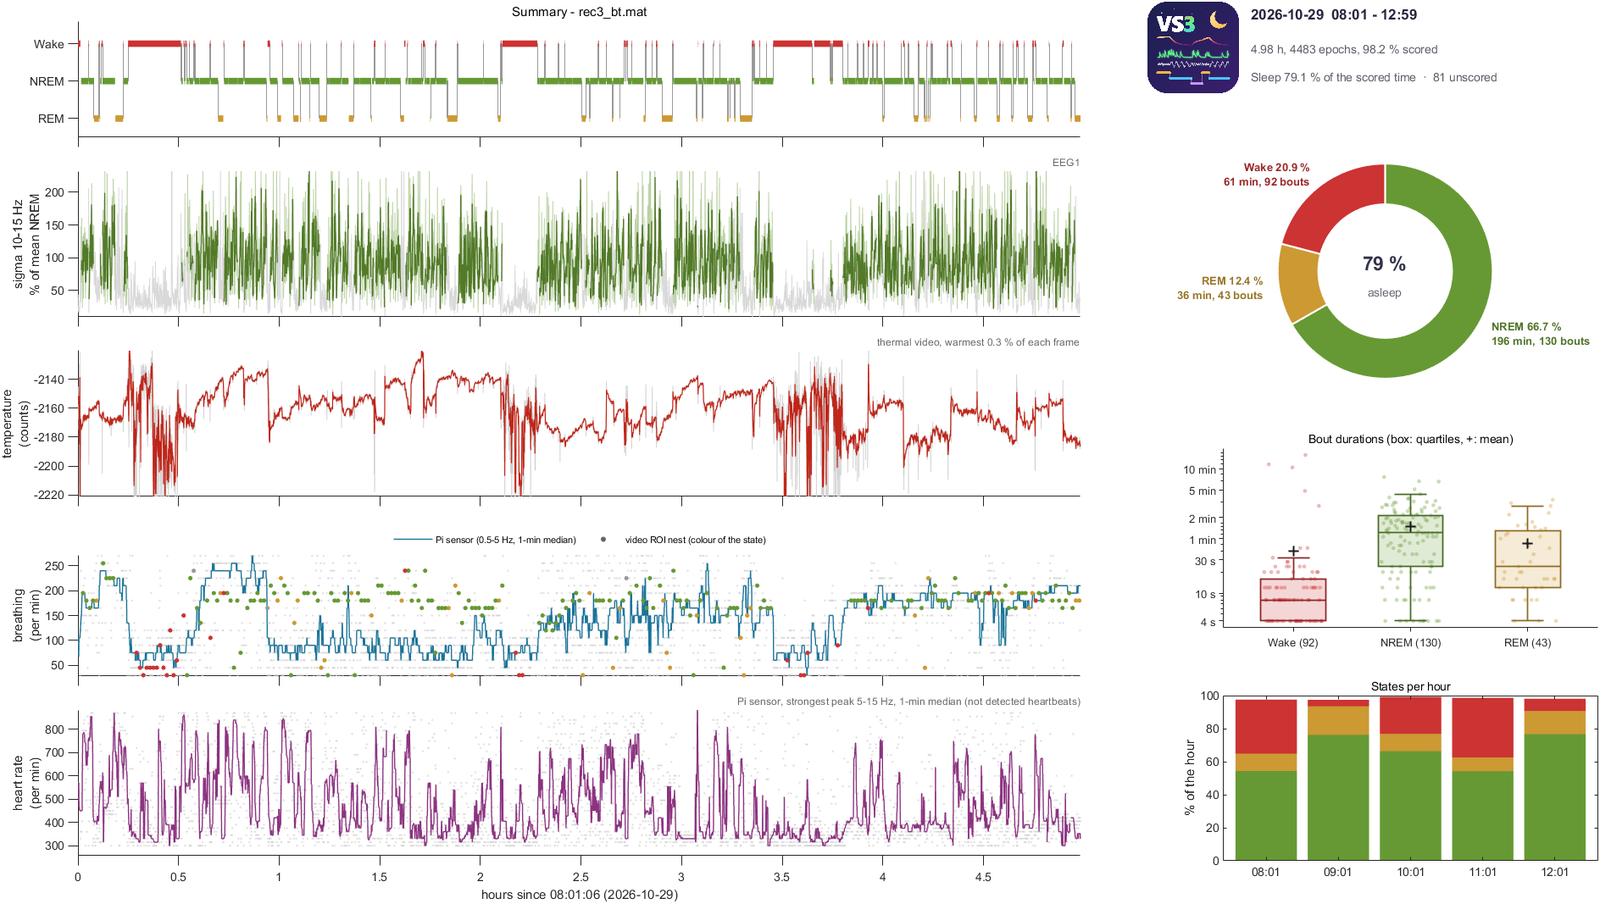
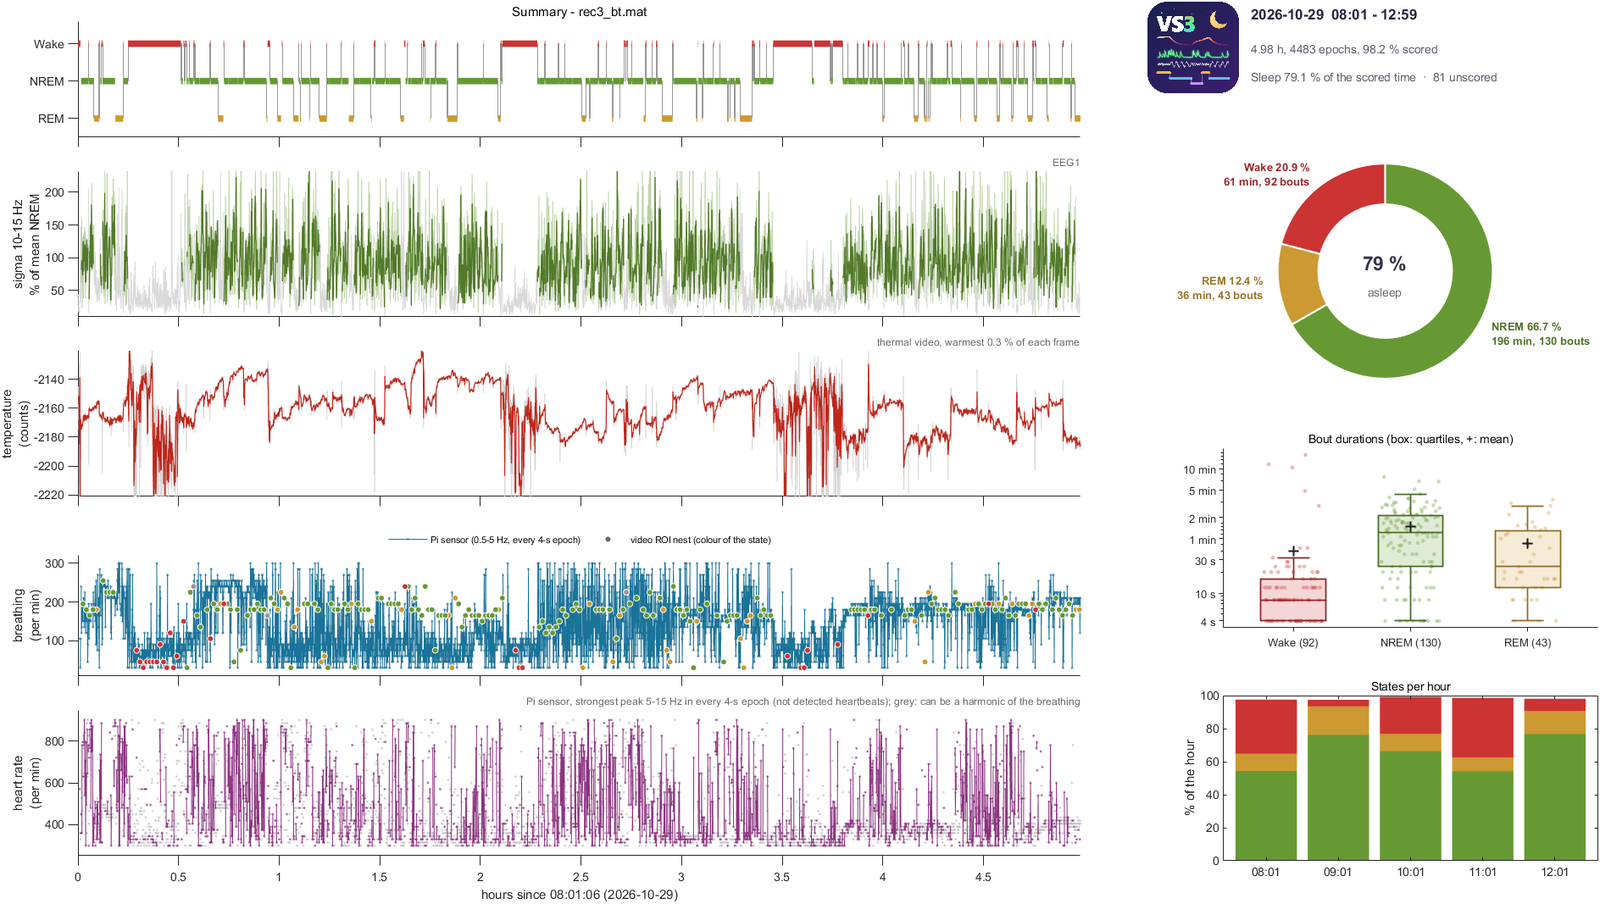
VeryScore3 summary: sensor breathing and heart rate of every 4-s epoch
The breathing and heart rate of the Pi sensor are drawn for every 4-s
epoch (line with a dot per epoch, so an epoch between gaps shows) instead
of a 1-min moving median. Heart-band peaks that can be a harmonic of the
breathing are grey dots. The video ROI dots get a white edge to stand out
from the sensor line. S.breathing / S.heart no longer have sensorMedian.

testImportTakesTheCsv puts the file history pref back (the import
remembers the folder of the CSV). Figure 23 of the tutorial remade on
recording 3; README and tutorial give the measuring times seen (warm spot
12-19 min, nest ROI breathing 16-28 min on the network drive).

Changed region(s): [[0.0312, 0.7743, 0.6875, 0.9602], [0.0312, 0.5885, 0.6875, 0.7434]]

diff --git a/VeryScore3_For_Sleep_Scoring/VS3_summary.m b/VeryScore3_For_Sleep_Scoring/VS3_summary.m
@@ -12,10 +12,10 @@ function [fig, S] = VS3_summary(varargin)
 %      every epoch (light); artifact epochs (1/2/3) left out
 %   3. temperature of the thermal video, when given (one value per epoch, per frame in grey)
 %   4. breathing rate, when given: of the Pi sensor (strongest peak in its respiration band in every
-%      epoch, in grey; 1-min moving median in colour) and seen by Pi ROIs of the video (dots in the
-%      colour of the state of the epoch: only sleep in the nest shows the breathing)
-%   5. heart rate of the Pi sensor, when given (strongest peak in its heart band, in grey; 1-min
-%      moving median of the epochs where it is not a harmonic of the breathing, in colour)
+%      4-s epoch, in steps of 15 /min) and seen by Pi ROIs of the video (dots in the colour of the
+%      state of the epoch: only sleep in the nest shows the breathing)
+%   5. heart rate of the Pi sensor, when given (strongest peak in its heart band in every 4-s epoch;
+%      in grey the epochs where it can be a harmonic of the breathing)
 %   6. photometry dF/F, when given (20 Hz in grey, 10-s mean in colour; the start left out of the
 %      baseline fit shaded)
 % and, on the right: when the recording ran, a ring of the time spent in each state, the duration of the
@@ -173,16 +173,14 @@ for i = 1:np
                 'VerticalAlignment', 'bottom', 'FontSize', 8, 'Color', [.4 .4 .4], 'Interpreter', 'none');
             S.thermal = struct('time', tEp, 'value', ve, 'unit', unit);
         case 'breathing'
-            S.breathing = struct('time', tEp, 'sensor', [], 'sensorMedian', [], 'video', struct('roi', {}, 'time', {}, 'value', {}));
+            S.breathing = struct('time', tEp, 'sensor', [], 'video', struct('roi', {}, 'time', {}, 'value', {}));
             shown = gobjects(0); names = {}; main = []; every = [];
             if hasS
                 v = perEpoch(o.sensor.breathing, o.sensor.epochs, nEp) * 60;
-                vs = movmedian(v, 15, 'omitnan');            % 1 min
-                plot(a, tEp, v, '.', 'Color', [.82 .82 .82], 'MarkerSize', 3);
-                shown(end + 1) = plot(a, tEp, vs, 'Color', colBreath, 'LineWidth', 0.9);
-                names{end + 1} = sprintf('Pi sensor (%g-%g Hz, 1-min median)', o.sensor.bands(1, :));
-                S.breathing.sensor = v; S.breathing.sensorMedian = vs;
-                main = vs(isfinite(vs)); every = v(isfinite(v));
+                shown(end + 1) = plot(a, tEp, v, '.-', 'Color', colBreath, 'LineWidth', 0.5, 'MarkerSize', 4); % (dots: an epoch between gaps)
+                names{end + 1} = sprintf('Pi sensor (%g-%g Hz, every 4-s epoch)', o.sensor.bands(1, :));
+                S.breathing.sensor = v;
+                main = v(isfinite(v)); every = main;
             end
             if hasV
                 marks = 'osd^v';
@@ -197,7 +195,7 @@ for i = 1:np
                         sel = state(e) == lv;
                         if ~any(sel); continue; end
                         c = [.6 .6 .6]; if lv > 0; c = stateCols{lv}; end
-                        plot(a, tEp(e(sel)), f(sel), mk, 'MarkerSize', 3.5, 'MarkerFaceColor', c, 'MarkerEdgeColor', 'none');
+                        plot(a, tEp(e(sel)), f(sel), mk, 'MarkerSize', 4.5, 'MarkerFaceColor', c, 'MarkerEdgeColor', 'w', 'LineWidth', 0.3);
                     end
                     shown(end + 1) = plot(a, NaN, NaN, mk, 'MarkerSize', 4, 'MarkerFaceColor', [.4 .4 .4], 'MarkerEdgeColor', 'none'); %#ok<AGROW>
                     names{end + 1} = sprintf('video ROI %s (colour of the state)', B.roi); %#ok<AGROW>
@@ -215,15 +213,16 @@ for i = 1:np
             v = perEpoch(o.sensor.heart, o.sensor.epochs, nEp) * 60;
             harm = perEpoch(double(o.sensor.harmonic), o.sensor.epochs, nEp) == 1;
             vc = v; vc(harm) = NaN;                          % a harmonic of the breathing is no heart rate
-            vs = movmedian(vc, 15, 'omitnan');
-            plot(a, tEp, v, '.', 'Color', [.82 .82 .82], 'MarkerSize', 3);
-            plot(a, tEp, vs, 'Color', colHeart, 'LineWidth', 0.9);
+            vh = v; vh(~harm) = NaN;
+            plot(a, tEp, vh, '.', 'Color', [.75 .75 .75], 'MarkerSize', 4);
+            plot(a, tEp, vc, '.-', 'Color', colHeart, 'LineWidth', 0.5, 'MarkerSize', 4);
             ylabel(a, sprintf('heart rate\n(per min)'));
-            if any(isfinite(vs)); a.YLim = robustLim(vs(isfinite(vs)), v(isfinite(v)), [0.5 99.5]); end
-            text(a, 1, 1.02, sprintf('Pi sensor, strongest peak %g-%g Hz, 1-min median (not detected heartbeats)', o.sensor.bands(2, :)), ...
+            if any(isfinite(v)); a.YLim = robustLim(vc(isfinite(vc)), v(isfinite(v)), [0.5 99.5]); end
+            text(a, 1, 1.02, sprintf(['Pi sensor, strongest peak %g-%g Hz in every 4-s epoch (not detected heartbeats); ', ...
+                'grey: can be a harmonic of the breathing'], o.sensor.bands(2, :)), ...
                 'Units', 'normalized', 'HorizontalAlignment', 'right', 'VerticalAlignment', 'bottom', 'FontSize', 8, ...
                 'Color', [.4 .4 .4], 'Interpreter', 'none');
-            S.heart = struct('time', tEp, 'sensor', v, 'harmonic', harm, 'sensorMedian', vs);
+            S.heart = struct('time', tEp, 'sensor', v, 'harmonic', harm);
         case 'photometry'
             P = o.photometry;
             tp = double(P.time(:)') / 3600;

diff --git a/VeryScore3_For_Sleep_Scoring/tests/test_summary.m b/VeryScore3_For_Sleep_Scoring/tests/test_summary.m
@@ -33,8 +33,13 @@ ax = findall(fig, 'Type', 'axes', 'Tag', 'VS3summary');
 labels = arrayfun(@(a) strjoin(cellstr(a.YLabel.String), ' '), ax, 'UniformOutput', false);
 verifyEqual(t, numel(ax), 3);                              % hypnogram, breathing, heart rate
 verifyTrue(t, any(contains(labels, 'breathing')) && any(contains(labels, 'heart rate')));
-verifyEqual(t, S.breathing.sensorMedian, 120*ones(1, nEp), 'AbsTol', 1e-9);
-verifyEqual(t, S.heart.sensorMedian, 480*ones(1, nEp), 'AbsTol', 1e-9); % the harmonic epochs left out
+breath = 120*ones(1, nEp); breath(100:110) = NaN;                % every 4-s epoch, no median
+verifyEqual(t, S.breathing.sensor, breath, 'AbsTol', 1e-9);
+heart = 480*ones(1, nEp); heart(120:126) = NaN;                  % the harmonic epochs left out of the line
+hr = ax(contains(labels, 'heart rate'));
+verifyEqual(t, findobj(hr, 'Type', 'line', 'Color', [.55 .2 .5]).YData, heart, 'AbsTol', 1e-9);
+verifyEqual(t, S.heart.sensor(120:126), 240*ones(1, 7), 'AbsTol', 1e-9); % shown in grey
+verifyEqual(t, find(S.heart.harmonic), 120:126);
 verifyEqual(t, S.breathing.video.value, 150*ones(1, numel(23:15:nEp)));
 verifyEqual(t, S.breathing.video.time, ((23:15:nEp) - 0.5)*4/3600, 'AbsTol', 1e-12);
 end

diff --git a/VeryScore3_For_Sleep_Scoring/tests/test_sensor.m b/VeryScore3_For_Sleep_Scoring/tests/test_sensor.m
@@ -181,6 +181,8 @@ writeFunction(fullfile(dialogs,'uigetfile.m'),sprintf('function [f,p]=uigetfile(
 writeFunction(fullfile(dialogs,'listdlg.m'),sprintf('function [s,ok]=listdlg(varargin)\ns=1; ok=true;\nend'));
 addpath(dialogs);
 unshadow=onCleanup(@() rmpath(dialogs)); %#ok<NASGU>
+had=VS3_pref('is','fileHistory'); history=VS3_pref('get','fileHistory');
+restore=onCleanup(@() putBackHistory(had,history)); %#ok<NASGU>
 VS3_main(recording);
 main=findall(groot,'Type','figure','Tag','VS3Main');
 assertEqual(t,numel(main),1);
@@ -197,6 +199,11 @@ menu.Callback(menu,[]); % the same CSV again: its H5 is used, not made again
 verifyEqual(t,getfield(dir(target),'datenum'),made); %#ok<GFLD>
 verifyFalse(t,isfile(fullfile(eeg,'importcsv_sensor_2.h5')));
 verifyEqual(t,numel(findall(groot,'Type','figure','Name','Sensor / EEG-EMG comparison')),1);
+end
+
+function putBackHistory(had,history)
+% the import remembers the folder of the CSV (VS3_fileHistory): the history of the user is put back
+if had; VS3_pref('set','fileHistory',history); else; VS3_pref('remove','fileHistory'); end
 end
 
 function writeFunction(path,text)

diff --git a/VeryScore3_For_Sleep_Scoring/README.md b/VeryScore3_For_Sleep_Scoring/README.md
@@ -317,12 +317,12 @@ How it is computed: the channel is multiplied by the cosine and sine of each car
 2. the sigma activity: power of the EEG in the sigma band (10-15 Hz) in every 4-s epoch, in % of its mean over the NREM epochs (of the median when nothing is scored as NREM); NREM in green, as a 3-epoch moving median that keeps the slow (about 1-min) fluctuations of sigma, over the values of each epoch in light green; artifact epochs left out
 3. the temperature of the animal (one value per epoch, per video frame in grey): from Tools > Thermal video when the file has that analysis; otherwise, when a thermal video is open in the video column, from the video itself: the mean of the 0.3 % warmest pixels of every second frame (the warm spot that the movement tools also use), median per epoch, frames of a shutter cycle left out. A `.ravi` gives energy counts (the camera calibration to degrees is applied by Tools > Thermal video only)
 4. the breathing rate, per minute:
-   - of the Pi sensor, when it is imported (Tools > Sensor data): the strongest peak in its respiration band (0.5-5 Hz unless changed in the comparison) in every epoch in grey, its 1-min moving median in blue
+   - of the Pi sensor, when it is imported (Tools > Sensor data): the strongest peak in its respiration band (0.5-5 Hz unless changed in the comparison) in every 4-s epoch, in blue. A 4-s window resolves 0.25 Hz, so the values come in steps of 15 per minute
    - seen by each Pi ROI of the video column, as dots in the colour of the state of the epoch, in one epoch per minute (the middle one): the strongest peak of the movement of the ROI (dx or dy) between 0.5 and 5 Hz. An epoch in which the ROI moved by more than 1 pixel (the animal moving, not breathing) or was lost gives no dot. Put the ROI on the nest: the breathing moves it by about 0.05 pixel and shows only while the animal sleeps there
-5. the heart rate of the Pi sensor, per minute: the strongest peak in its heart band (5-15 Hz) in every epoch in grey, its 1-min moving median in purple without the epochs where the peak can be a harmonic of the breathing. A peak of the spectrum, not detected heartbeats
+5. the heart rate of the Pi sensor, per minute: the strongest peak in its heart band (5-15 Hz) in every 4-s epoch, in purple; in grey the epochs where the peak can be a harmonic of the breathing. A peak of the spectrum, not detected heartbeats
 6. the photometry dF/F, when the file has it (20 Hz in grey, 10-s mean in blue; the start left out of the baseline fit shaded)
 
-The signals of the videos are measured when the summary is made: what is not measured yet is listed first, with the time it takes (choose none for a summary without them). On recording 3 (5 h, videos on a network drive) the warm spot took 12 min and the breathing of the nest ROI (299 epochs of a 1080p video) 16 min. They are kept in the video settings and saved with the file, so they are measured only once (the breathing again when the ROI or the offset of the Pi video changes). The breathing and heart rate of the sensor take a few seconds.
+The signals of the videos are measured when the summary is made: what is not measured yet is listed first, with the time it takes (choose none for a summary without them). On recording 3 (5 h, videos on a network drive) the warm spot took 12 to 19 min and the breathing of the nest ROI (299 epochs of a 1080p video) 16 to 28 min, depending on the load of the drive. They are kept in the video settings and saved with the file, so they are measured only once (the breathing again when the ROI or the offset of the Pi video changes). The breathing and heart rate of the sensor take a few seconds.
 
 and, on the right:
 

diff --git a/VeryScore3_For_Sleep_Scoring/tutorial/README.md b/VeryScore3_For_Sleep_Scoring/tutorial/README.md
@@ -258,11 +258,11 @@ The sensor is placed on the EEG by the clock times of the two recordings. **Band
 
 **Tools > Summary figure...** asks for an EEG channel and draws the whole recording in one figure: the hypnogram, the sigma activity of the EEG (10–15 Hz, spindles) in NREM sleep, the temperature, breathing and heart rate when the videos and the sensor are open, photometry when the file has it, the time spent in each state, the duration of the bouts, and the states hour by hour.
 
-With a thermal video open, the temperature is the warmest spot of each frame. With an ROI on the nest in the Pi video, the breathing is measured in one epoch per minute: dots in the colour of the state, so you see the breathing of the sleeping mouse. With the sensor imported, its breathing and heart rate are shown too. The first time, VeryScore3 asks before measuring the videos (here 12 min for the temperature and 16 min for the breathing); **File > Save** keeps the results.
+With a thermal video open, the temperature is the warmest spot of each frame. With an ROI on the nest in the Pi video, the breathing is measured in one epoch per minute: dots in the colour of the state, so you see the breathing of the sleeping mouse. With the sensor imported, its breathing and heart rate are shown too, one value per 4-s epoch. The first time, VeryScore3 asks before measuring the videos (here 12 to 19 min for the temperature and 16 to 28 min for the breathing, depending on the network drive); **File > Save** keeps the results.
 
 ![Summary figure with the videos and the sensor](images/23_summary_signals.png)
 
-Here the video breathing is about 180 per minute in NREM sleep (middle half 165–195). The sensor's breathing peak often sits lower, and its heart-band peak (300–850 per minute) is a peak of the spectrum, not counted heartbeats.
+Here the video breathing is about 180 per minute in NREM sleep (middle half 165–195). The sensor's breathing jumps by about 30 per minute from one epoch to the next. In NREM it agrees with the video after 3 h of the recording, but between 1 and 2.5 h most epochs sit at 60–120. Its heart-band peak can be a harmonic of the breathing in half of the epochs (grey) and otherwise spreads over 360–690 per minute in NREM: a peak of the spectrum, not counted heartbeats.
 
 ![Summary figure](images/22_summary.png)
 

diff --git a/VeryScore3_For_Sleep_Scoring/CHANGELOG.md b/VeryScore3_For_Sleep_Scoring/CHANGELOG.md
@@ -44,8 +44,9 @@ The separate program is not part of VeryScore3; its video, timing and sensor fun
   for files converted from Open Ephys: their recorded names (`traceName`) won before, so the names typed
   were never shown. File > Edit file Infos > New: Cancel no longer gives an error.
 - Sensor comparison: cancelling the calculation of the trends showed an error instead of the partial trends.
-- Tools > Summary figure: the breathing (per min) of the Pi sensor and the one seen by Pi ROIs of the video
-  (one epoch per minute, coloured by state), the heart rate of the sensor, and, without a Thermal analysis,
+- Tools > Summary figure: the breathing (per min) of the Pi sensor in every 4-s epoch and the one seen by Pi
+  ROIs of the video (one epoch per minute, coloured by state), the heart rate of the sensor in every 4-s epoch
+  (grey where it can be a harmonic of the breathing), and, without a Thermal analysis,
   the temperature of the warm spot of the thermal video. The video signals are measured once (asked
   first, with the time it takes) and saved with the video settings (`Video.breathing`, `Video.warmSpot`).
   `VS3_videoPanel.roiBreathing`; `VS3_videoMotion('warmSpot')` also gives the temperature of the spot.
